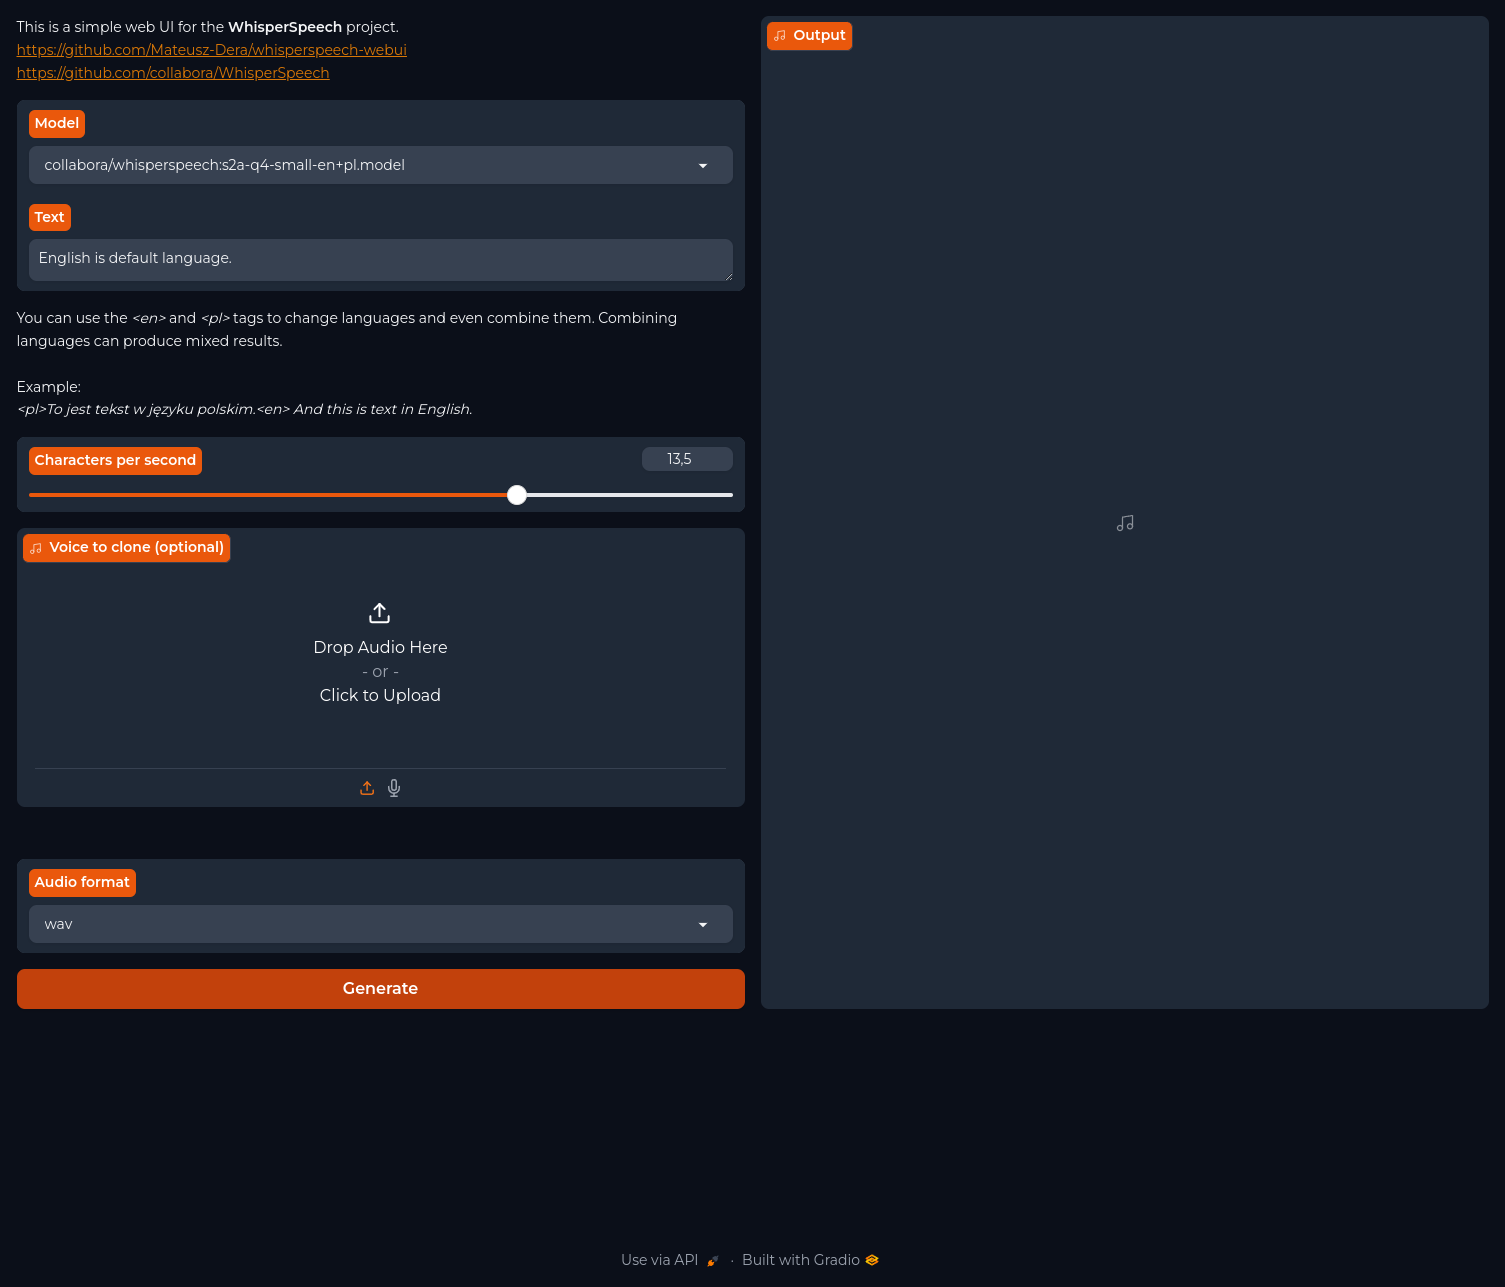
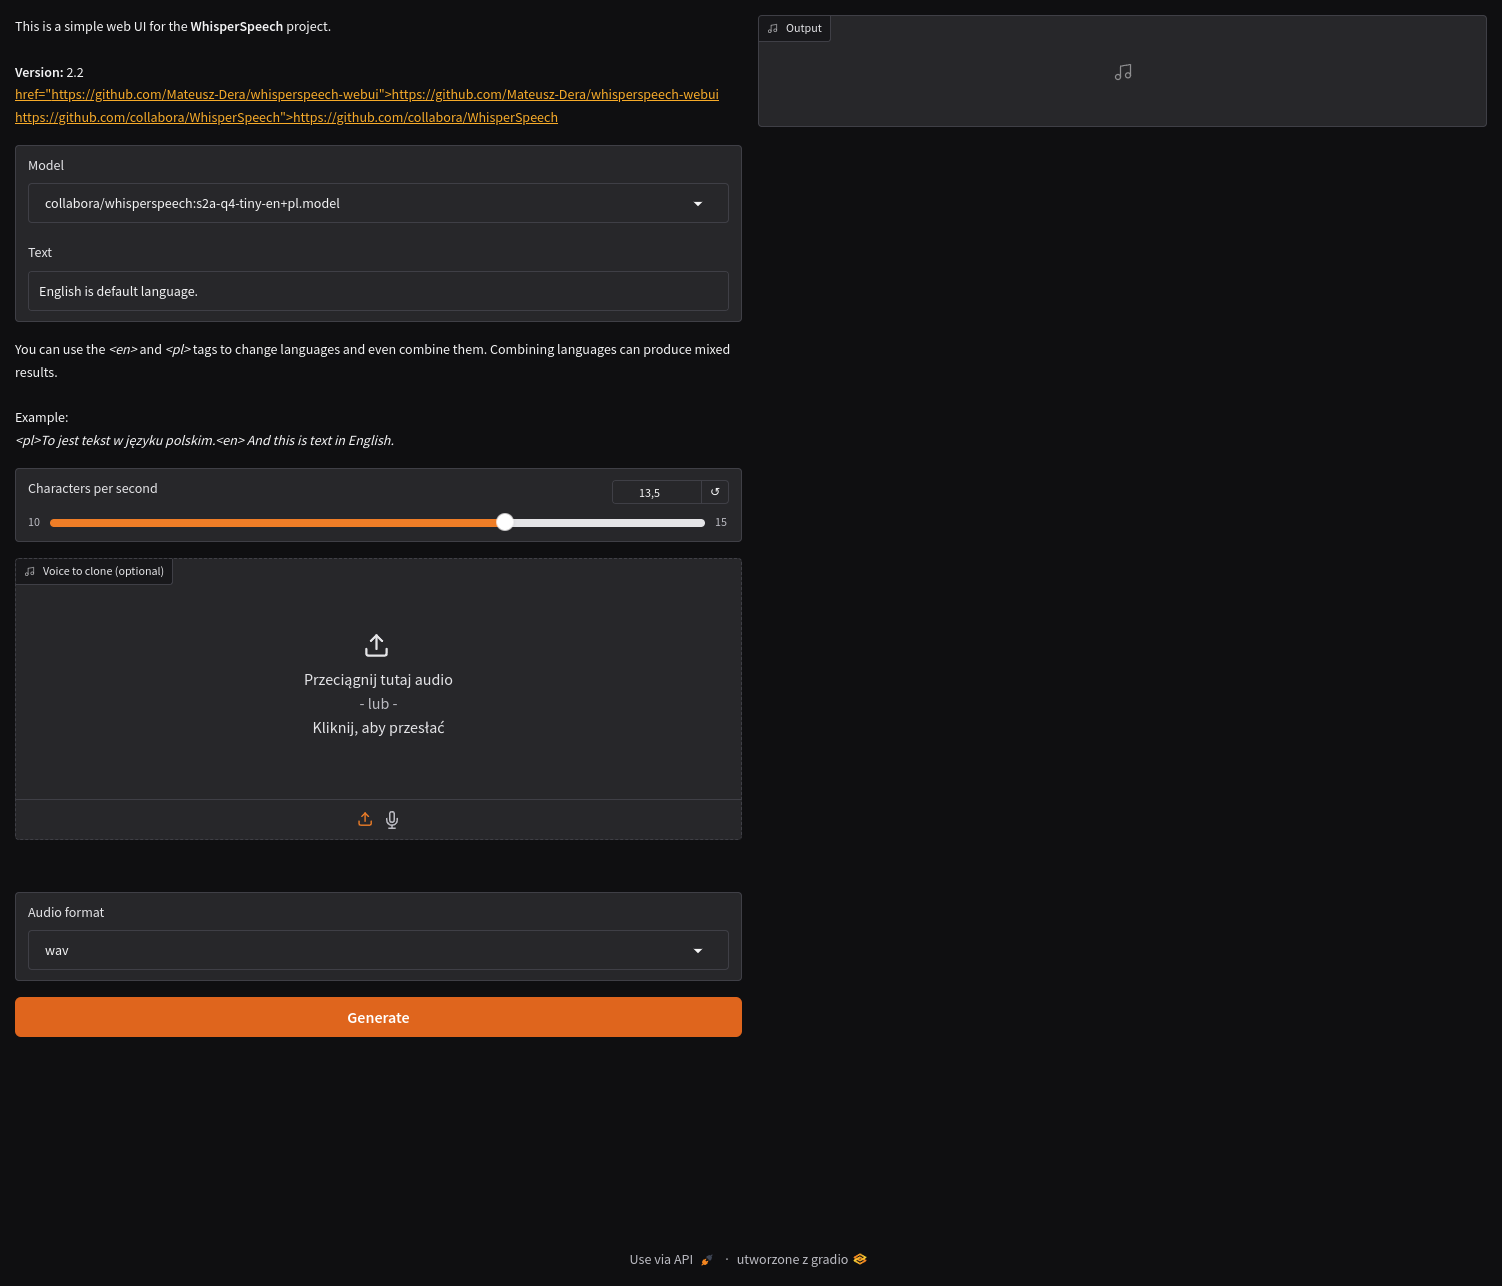
Working ROCm

diff --git a/webui.py b/webui.py
@@ -61,12 +61,9 @@ MODELS = {
 }
 
 # Text
-text_info = _('This is a simple web UI for the %s project.') % '<b>WhisperSpeech</b>'
-text_version = '<b>' + _('Version:') + '</b> ' + version
-
 info = '%s<br><br>%s<br><a>%s</a><br><a>%s</a>' % (
-    text_info,
-    text_version,
+    _('This is a simple web UI for the %s project.') % '<b>WhisperSpeech</b>',
+    '<b>' + _('Version:') + '</b> ' + version,
     'href="https://github.com/Mateusz-Dera/whisperspeech-webui">https://github.com/Mateusz-Dera/whisperspeech-webui',
     'https://github.com/collabora/WhisperSpeech">https://github.com/collabora/WhisperSpeech'
 )

diff --git a/README.md b/README.md
@@ -64,6 +64,11 @@ CUDA 12.4:
 pip install -r requrements_cuda_12.1.txt
 ```
 
+ROCm 6.2
+```bash
+pip install -r requirements_rocm_6.2.txt
+```
+
 7\. Run:
 ```bash
 python webui.py
@@ -95,11 +100,6 @@ pybabel init -i ./locale/messages.pot -d ./locale -l pl_PL
 # Replace pl_PL by your language
 ```
 
-4\. Update:
-```bash
-pybabel update -i ./locale/messages.pot -d ./locale
-```
-
-5\. Compile:
+4\. Compile:
 ```bash
 pybabel compile -d ./locale
